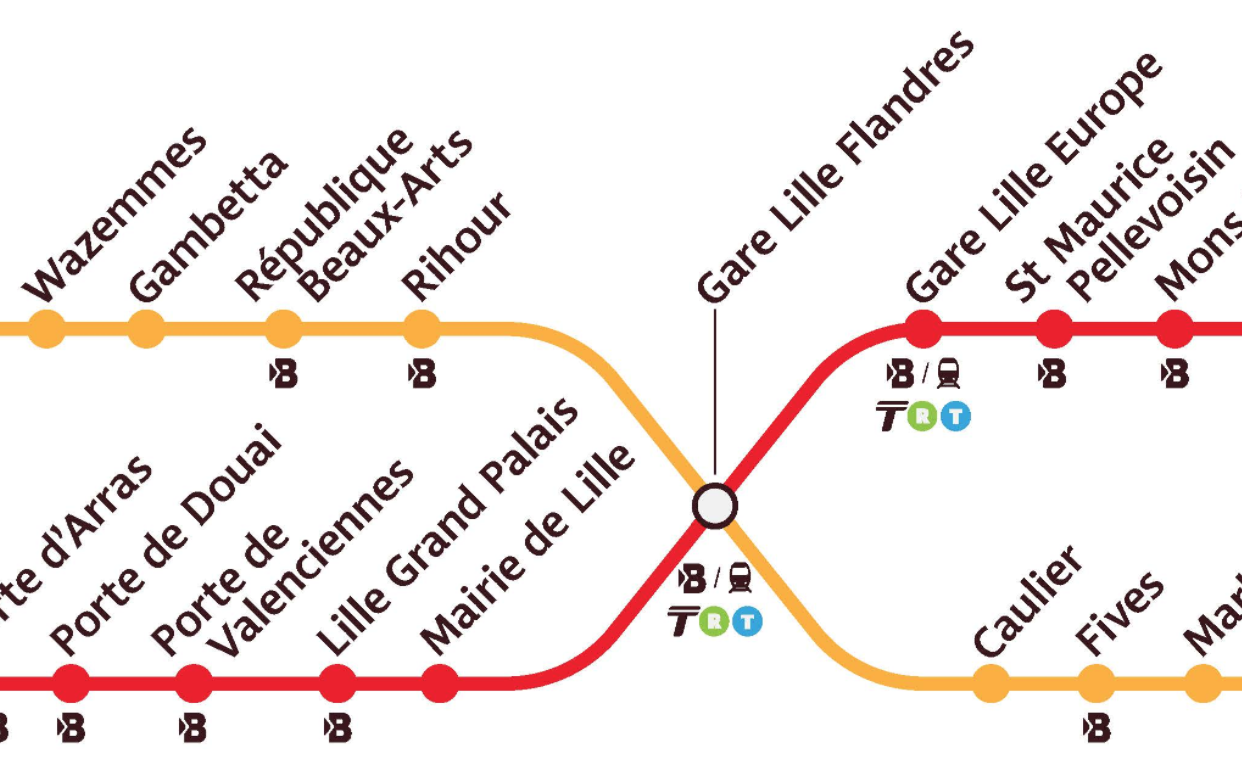
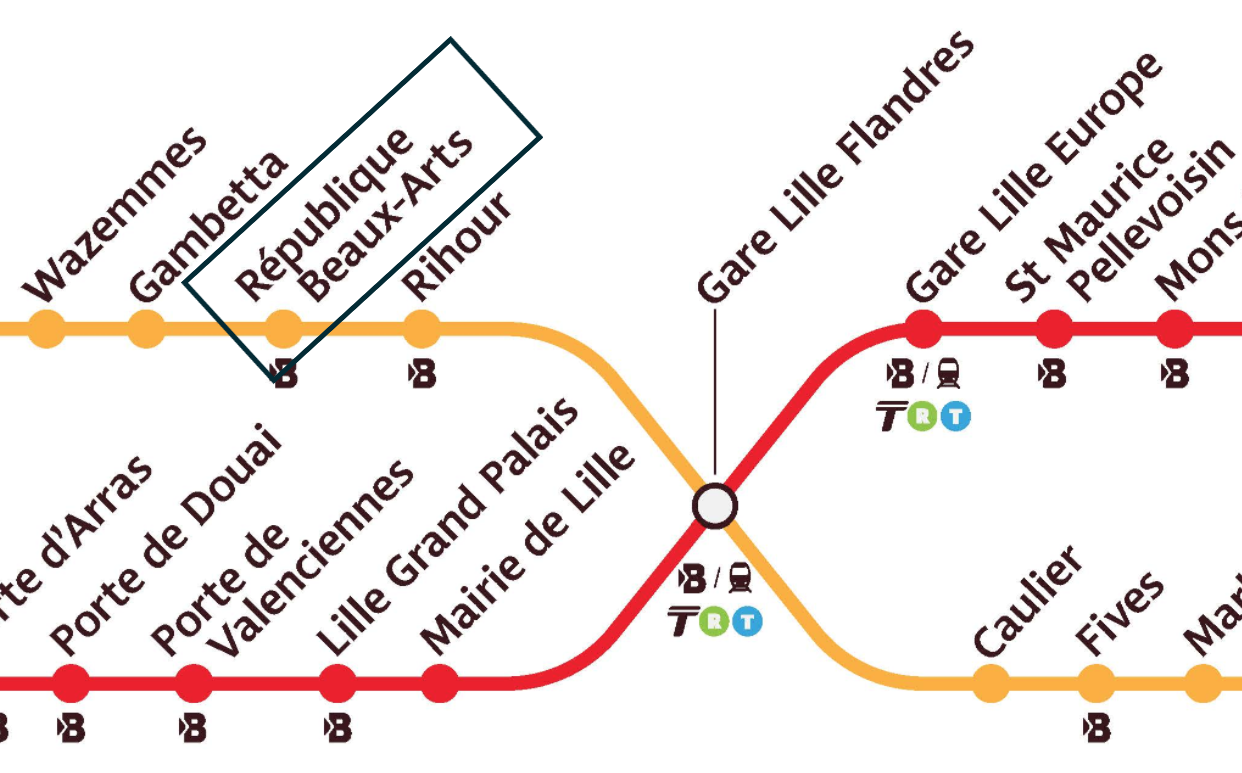
Things

diff --git a/2018/index.html b/2018/index.html
@@ -70,7 +70,7 @@
       </div>
     </div>
     <div class="parallax">
-      <img src="images/people-coffee-notes-tea.jpg" alt="Unsplashed background img 1" />
+      <img src="images/lille.jpg" alt="Unsplashed background img 1" />
     </div>
   </div>
 
@@ -88,8 +88,11 @@
               Après avoir traversé la France, c'est à Lille, à une heure de Paris et trente minutes de Bruxelles, que les djangonautes francophones se retrouveront le weekend du 9 juin 2018.
               Au programme, toujours de la technique, mais surtout de bons moments.
             </p>
-            <p class="left-align light">
-              Les rencontres django se veulent financièrement accessibles et accueillantes pour tout le monde. Veuillez consulter notre <a href="code-conduite.html">code de conduite</a>.
+            <p class="light">
+              Après une journée de tutoriel pour découvrir Django, nous
+              accueillerons débutant·es et confirmé·es pour des talks le
+              samedi autour du "Framework au poney". Au programme du dimanche:
+              sprints, détente et activités centrées sur la communauté.
             </p>
           </div>
         </div>
@@ -97,11 +100,25 @@
         <div class="col s12 m4">
           <div class="icon-block">
             <h2 class="center yellow-text"><i class="medium material-icons">group</i></h2>
-            <h4 class="center">Django @ <br/>La Grappe</h4>
+            <h4 class="center">Django @ <br/>Lille</h4>
 
-            <p class="light">Cette année, l'évènement se tiendra à <a href="http://www.lagrappe.eu/">La Grappe</a>, un espace de Coworking au coeur de la ville.</p>
-            <p class="light">L'hébergement n'est pas fourni mais il y a de nombreux hôtels et AirBnb à proximité. Les repas, quant à eux, seront pros en charge du vendredi midi au dimanche midi.</p>
-            <p class="light">Après une journée de tutoriel pour découvrir Django, nous accueillerons débuttant·e et confirmé·e pour une journée de talks autour du "Framework au poney" et une journée de sprints, de détente et d'activités centrées sur la communauté.</p>
+            <p class="light">
+              Cette année, l'évènement se tiendra Lille, et
+              plus précisément à <a href="http://www.lagrappe.eu/">La
+              Grappe</a>, un espace de Coworking au coeur de la ville
+            </p>
+            <p class="light">
+              L'hébergement n'est pas fourni mais il y a de nombreux hôtels et
+              AirBnb à proximité. Les repas, quant à eux, seront pris en
+              charge du vendredi midi au dimanche midi. L'évènement se veut
+              accessible financièrement (55€), des tarifs plus avantageux
+              dans la billeterie et sur demande. Des bourses sont accessibles
+              <a href="mailto:djangocong@django-fr.org">sur demande</a>.
+            </p>
+            <p>
+              La partitipation a l'évènement implique l'adhésion au
+              <a href="code-conduite">code de conduite</a>.
+            </p>
           </div>
         </div>
 
@@ -111,20 +128,20 @@
             <h4 class="center">Programme<br/>2018</h4>
             <ul class="collection">
               <li class="collection-item">
-                Vendredi 31/03
+                Vendredi 08/06
                   <ul class="light">
-                    <li><a href="tutoriel-django.html">Workshop Django</a> (organisation en cours)</li>
+                    <li><a href="tutoriel-django.html">Tutoriel Django</a> (organisation en cours)</li>
                   </ul>
               </li>
               <li class="collection-item">
-                Samedi 1/04
+                Samedi 09/06
                 <ul class="light">
                   <li>Talks, talks, talks</li>
                   <li>Dîner</li>
                 </ul>
               </li>
               <li class="collection-item">
-                Dimanche 2/04
+                Dimanche 10/06
                 <ul class="light">
                   <li>Sprints</li>
                   <li>Jeux</li>
@@ -166,7 +183,7 @@
         <br><br>
         <div class="row center">
           <h2 class="white-text">Présentations</h2>
-          <p class="left-align white-text">Les conférences sont le moment phare de l'évènement. Venez écouter les témoignages, les retours d'expérience, les échecs, les succès, les doutes…</p>
+          <p class="left-align white-text center">Les conférences sont le moment phare de l'évènement. Venez écouter les témoignages, les retours d'expérience, les échecs, les succès, les doutes…</p>
           <a href="programme.html" class="btn-large waves-effect waves-light btn">Consultez le programme.</a>
         </div>
       </div>
@@ -184,14 +201,16 @@
           <p class="left-align light">
             Nous nous attachons à produire des évènements abordables. Pour ce
             faire, nous limitons les frais superflus, tout le monde paie sa
-            place, nous faisons appel à de généreux sponsors. Néanmoins, si le
-            prix devait être un obstacle, n'hésitez pas à nous contacter pour
-            que nous puissions trouver une solution.
+            place, nous faisons appel à de généreux sponsors.
           </p>
           <p class="left-align light">
-            De même, étant une toute petite équipe d'orga, nous ne pouvons
+            Si le prix du sponsoring devait être un obstacle,
+            n'hésitez pas à nous contacter pour que nous puissions trouver une
+            solution. Il y a beaucoup de possibilités pour aider l'évènement.
+            Étant une toute petite équipe d'orga, nous ne pouvons
             anticiper toutes les demandes. Si vous avez une requête
-            particulière, contactez-nous (djangocong à django-fr point org).
+            particulière, <a href="mailto:djangocong@django-fr.org">
+            contactez-nous</a>.
           </p>
 
           <p class="left-align">
@@ -203,8 +222,8 @@
             <p class="left-align">
               Pour 2018, nous faisons comme avant : vous choisissez le montant
               de votre sponsoring. À partir de 200 euros vous aurez une place
-              offerte pour les Congs. En devenant (gentil) sponsor, vous serez
-              mentionné·e dans toutes les communications autour de
+              offerte pour l'évènement. En devenant (gentil) sponsor, vous serez
+              mentionné dans toutes les communications autour de
               l'événement, ainsi qu'en début et fin d'événement. Votre logo
               (ou votre nom si vous êtes une personne physique) sera également
               affiché sur ce site, avec un lien vers le vôtre. Il n'y aura
@@ -220,6 +239,8 @@
               donation permettant de faire vivre l'événement (goodies, coups
               de main, communication, etc.).
             </p>
+            <h4><a href="mailto:djangocong@django-fr.org">
+            Contactez-nous pour tout proposition</a></h4>
           </div>
         </div>
       </div>

diff --git a/2018/code-conduite.html b/2018/code-conduite.html
@@ -65,7 +65,7 @@
       </div>
     </div>
     <div class="parallax">
-      <img src="images/people-coffee-notes-tea.jpg" alt="Unsplashed background img 1" />
+      <img src="images/lille.jpg" alt="Unsplashed background img 1" />
     </div>
   </div>
 
@@ -97,34 +97,34 @@
             <h3>Buts</h3>
             <p>
               Le présent code de conduite a les objectifs suivants:
-              <ul>
-              <li>Fournir un environement sain et accueillant à l'ensemble des
+              <ul class="browser-default">
+              <li>Organiser un environement sain et accueillant à l'ensemble des
               participant·es. Nous affirmons clairement que les comportements
               de harcèlement et de discrimination ne sont pas
-              acceptables;</li>
+              acceptables</li>
               <li>Établir une base de confiance pour que chacun sache que les
               incidents seront traités, que leurs victimes seront écoutées,
-              quelqu'en soit la personne responsable;</li>
+              quelqu'en soit la personne responsable</li>
               <li>Informer tous les participants des comportements attendus,
-              afin de dissiper au maximum les malentendus.</li>
+              afin de dissiper au maximum les malentendus</li>
               <li>Avoir un cadre quant aux conséquences en cas de non-
-              suivi de ce code.</li>
+              suivi de ce code</li>
               </ul>
             </p>
             <p>
             <h3>Le code de conduite</h3>
             </p>
-            <ul>
+            <ul class="browser-default">
               <li>Soyez poli·es et civil·es. N'insultez pas et ne vous moquez pas
               des autres participants. Agissez professionellement.</li>
-              <li>Nous nous engageons à fournir un évènement exempt de
+              <li>Nous nous engageons à organiser un évènement exempt de
               harcèlement pour chacun quelque soit sa couleur de peau, ses
-              origines, sa culture, son pays, son statut en matière
-              d'immigration, sa classe sociale son niveau d'éducation, son
-              sexe, son identité de genre, ses orientations sexuelles, son
-              âge, son physique, son statut familial, ses choix politiques, sa
-              religion, ses aptitudes physiques et mentales.</li>
-              <li>Nous ne tolèreront aucune forme de harcèlement envers un·e
+              origines, sa culture, son pays, sa classe sociale, son niveau
+              d'éducation, son sexe, son identité de genre, ses orientations
+              sexuelles, son âge, son physique, son statut familial, ses choix
+              politiques, sa religion, ses aptitudes physiques et
+              mentales.</li>
+              <li>Nous ne tolèrerons aucune forme de harcèlement envers un·e
               participant·e, que ce soit à travers des commentaires négatifs
               vis-à-vis des catégories ci-dessus, de l'intimidation, d'une
               attention disproportionnée et non-voulue imposé à quelqu'un, de
@@ -133,11 +133,11 @@
               physique ou orale, de menaces, de contacts physiques
               innapropriés et de comportement sexuel non sollicité.</li>
               <li>La promotion et l'encouragement à de tel comportement n'est
-              pas non plus acceptable</li>
+              pas non plus acceptable.</li>
               <li>Les expressions et contenus graphiques sexuelles et/ou
               choquantes ne sont pas non plus acceptables.</li>
               <li>Les mots ont un sens. N'oubliez pas que les blagues
-              sexistes, racites, et, en général, excluantes, peuvent être
+              sexistes, racistes, et, en général, excluantes, peuvent être
               choquantes et désagréable pour les gens qui vous entourent.
               </li>
             </ul>
@@ -154,7 +154,7 @@
               prendre immédiatement les mesures qu’ils/elles jugent
               appropriées:
             </p>
-            <ul>
+            <ul class="browser-default">
               <li>Exiger que l'auteur·e mette un terme à son comportement</li>
               <li>Exiger que l'auteur·e n'entre plus en contact avec un·e ou
               plusieurs participant·es pendant la durée de l'évènement</li>
@@ -162,7 +162,7 @@
               <li>Annuler une présentation</li>
               <li>Exclure temporairement ou définitivement l'auteur·e de
               l'évènement et des évènements suivants</li>
-              <li>Recourrir à l'intervention les forces de l'ordre, en cas de
+              <li>Recourir à l'intervention les forces de l'ordre, en cas de
               nécéssité et/ou avec l'accord de la victime</li>
               <li>Mener une action en justice</li>
             </ul>
@@ -181,7 +181,7 @@
             <h3>Contacts</h3>
             Les personnes à contacter seront présentées en introduction à la
             conférence. Leur coordonnées seront précisées dans ce document.
-            <ul>
+            <ul class="browser-default">
               <li>Joachim Jablon - joachim@jablon.fr - +33 6 75 66 76 84 (organisateur)</li>
             </ul>
             <h3>Urgence</h3>

diff --git a/2018/pratique.html b/2018/pratique.html
@@ -65,7 +65,7 @@
       </div>
     </div>
     <div class="parallax">
-      <img src="images/people-coffee-notes-tea.jpg" alt="Unsplashed background img 1" />
+      <img src="images/lille.jpg" alt="Unsplashed background img 1" />
     </div>
   </div>
 
@@ -116,7 +116,7 @@
         <div class="col s12">
           <ul class="collapsible popout" data-collapsible="accordion">
             <li>
-              <div class="collapsible-header"><i class="material-icons">euro symbol</i>Tickets </div>
+              <div class="collapsible-header"><i class="material-icons">receipt</i>Tickets </div>
               <div class="collapsible-body"><span><p>
                 Les tickets seront en vente prochainement, le prix sera annoncé dès qu'il sera connu.
               </p>
@@ -181,7 +181,10 @@
               <div class="collapsible-header"><i class="material-icons">train</i>Metro <span class="badge new" data-badge-caption="Min.">5</span></div>
               <div class="collapsible-body">
               <span><p>
-                La Grappe est située juste à côté de la place de la République, et de la station de metro "Place de la République", sur la ligne Jaune, directe depuis Lille Flandres (10 minutes) (1 changement depuis Lille Europe).
+                La Grappe est située juste à côté de la place de la
+                République, et de la station de metro "République - Beaux-
+                Arts", sur la ligne Jaune, directe depuis Lille Flandres (10
+                minutes) (1 changement depuis Lille Europe).
               </p>
               <img src="/images/metro.png" alt="Plan du métro" width="50%">
               <p>

diff --git a/2018/programme.html b/2018/programme.html
@@ -61,11 +61,11 @@
   <div id="index-banner" class="parallax-container">
     <div class="section no-pad-bot">
       <div class="container hero">
-        <h1 class="header center white-text">Code de conduite</h1>
+        <h1 class="header center white-text">Programme</h1>
       </div>
     </div>
     <div class="parallax">
-      <img src="images/people-coffee-notes-tea.jpg" alt="Unsplashed background img 1" />
+      <img src="images/lille.jpg" alt="Unsplashed background img 1" />
     </div>
   </div>
 
@@ -94,7 +94,7 @@
             </p>
             <h2>Dimanche - Activités</h2>
             <p>
-              En intérieur ou en extérieur, il y a plein de choses avec faire avec des ami·es Djangonautes à Lille. Nous allons remplir cette section avec les activités proposées (sprints, ballades, ...)
+              En intérieur ou en extérieur, il y a plein de choses avec faire avec des ami·es Djangonautes à Lille. Nous allons remplir cette section avec les activités proposées (sprints, balades, ...)
             </p>
           </div>
         </div>

diff --git a/2018/css/style.css b/2018/css/style.css
@@ -9014,7 +9014,9 @@ nav ul a {
   padding-top: 1em; }
 
 .parallax-container {
-  text-shadow: 0 0 20px black; }
+  text-shadow: 0 0 10px black; }
+  .parallax-container h5 {
+    text-shadow: 0 0 5px black; }
 
 .emphasized-panel {
   background-color: #d9f9f6; }

diff --git a/2018/mentions-legales.html b/2018/mentions-legales.html
@@ -65,7 +65,7 @@
       </div>
     </div>
     <div class="parallax">
-      <img src="images/people-coffee-notes-tea.jpg" alt="Unsplashed background img 1" />
+      <img src="images/lille.jpg" alt="Unsplashed background img 1" />
     </div>
   </div>
 

diff --git a/2018/tutoriel-django.html b/2018/tutoriel-django.html
@@ -65,7 +65,7 @@
       </div>
     </div>
     <div class="parallax">
-      <img src="images/people-coffee-notes-tea.jpg" alt="Unsplashed background img 1" />
+      <img src="images/lille.jpg" alt="Unsplashed background img 1" />
     </div>
   </div>
 

diff --git a/2018/sass/style.scss b/2018/sass/style.scss
@@ -117,7 +117,11 @@ nav{
 }
 
 .parallax-container {
-  text-shadow: 0 0 20px black;
+  text-shadow: 0 0 10px black;
+  h5 {
+    text-shadow: 0 0 5px black;
+
+  }
 }
 
 .emphasized-panel {
